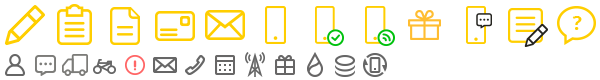
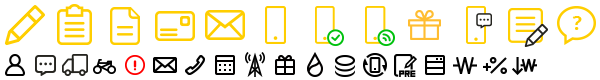
디자인 개선

Changed region(s): [[0.0, 0.65, 0.9, 0.975]]

diff --git a/css/scss/_ico.scss b/css/scss/_ico.scss
@@ -3,65 +3,100 @@
 	background-repeat:no-repeat;
 }
 .ico-small {
-	@extend .ico-common;
 	@include inlineBlock;
+	@include opacity(0.6);
 	width:30px;
 	height:30px;
 	vertical-align:middle;
+	background-image:url('../img/ico-common-small.png');
+	background-repeat:no-repeat;
+	&:active{@include opacity(1);}
 }
-
+.ico-calculate {
+	@include inlineBlock;
+	width:14px;
+	height:14px;
+	background-image:url('../img/ico-calculate.png');
+	background-repeat:no-repeat;
+	vertical-align:middle;
+}
+.ico-calculate-minus-positive{
+	@extend .ico-calculate;
+	background-position:-28px -14px;
+}
+.ico-calculate-plus{
+	@extend .ico-calculate;
+	@include opacity(0.6);
+	background-position:-14px 0px;
+}
+.ico-more-small{
+	@extend .ico-small;
+	background-position:-540px 0;
+}
+.ico-capacity-small{
+	@extend .ico-small;
+	background-position:-420px 0;
+}
+.ico-vat-small{
+	@extend .ico-small;
+	background-position:-480px 0;
+}
+.ico-sale-small{
+	@extend .ico-small;
+	background-position:-510px 0;
+}
 .ico-person-small{
 	@extend .ico-small;
-	background-position:0 -50px;
+	background-position:-30px 0;
 }
 .ico-talk-small{
 	@extend .ico-small;
-	background-position:-30px -50px;
+	background-position:-30px 0;
 }
 .ico-truck-small{
 	@extend .ico-small;
-	background-position:-60px -50px;
+	background-position:-60px 0;
 }
 .ico-bike-small{
 	@extend .ico-small;
-	background-position:-90px -50px;
+	background-position:-90px 0;
 }
 .ico-caution-small{
 	@extend .ico-small;
 	margin-top:-5px;
-	background-position:-120px -50px;
+	background-position:-120px 0;
 }
 .ico-email-small{
 	@extend .ico-small;
-	background-position:-150px -50px;
+	background-position:-150px 0;
 }
 .ico-tel-small{
 	@extend .ico-small;
-	background-position:-180px -50px;
+	background-position:-180px 0;
 }
 .ico-calendar-small{
 	@extend .ico-small;
-	background-position:-210px -50px;
+	background-position:-210px 0;
 }
 .ico-carrier-small{
 	@extend .ico-small;
-	background-position:-240px -50px;
+	background-position:-240px 0;
 }
 .ico-gift-small{
 	@extend .ico-small;
-	background-position:-270px -50px;
+	background-position:-270px 0;
 }
 .ico-color-small{
 	@extend .ico-small;
-	background-position:-300px -50px;
+	background-position:-300px 0;
 }
 .ico-plan-small, 
 .ico-coins-small{
 	@extend .ico-small;
-	background-position:-330px -50px;
+	background-position:-330px 0;
 }
 .ico-apply-type-small,
 .ico-change-device-small{
 	@extend .ico-small;
-	background-position:-360px -50px;
+	background-position:-360px 0;
 }

diff --git a/css/scss/_calculator.scss b/css/scss/_calculator.scss
@@ -26,6 +26,7 @@
 	position:absolute;
 	right:0;
 	padding:5px 10px;
+	.ico-calculate-plus{@include opacity(0.4);}
 	.price{font-size:1.2em;}
 }
 .calc-value-label{
@@ -76,13 +77,15 @@
 	position:absolute;
 	width:30px;
 	height:30px;
+	padding:0;
 	background:none;
 	font-size:2em;
 	font-weight:bold;
 	color:getPrimaryColor(8);
 	border:0;
-	bottom:0;
-	right:0;
+	bottom:7px;
+	right:7px;
+	.ico-more-small{@include opacity(1);background-position:-540px -30px;}
 }
 .calc-wrap{
 	width:100%;
@@ -170,6 +173,7 @@
 		height:20px;
 		line-height:20px;
 	}
+	i{display:none;}
 	.calc-row.active &{
 		color:rgba(0,0,0,0.5);
 	}
@@ -323,10 +327,31 @@
 		line-height:85px;
 		font-size:1em;
 	}
-	.calc-row{height:85px;}
-	.calc-row-label{
-		top:0px;
-		left:5px;
+	.calc-row{
+		padding-left:65px;
+		height:85px;
+		&-lock-1,
+		&-lock-2,
+		&-lock-3,
+		&-lock-4{
+			display:block;
+			width:100%;
+		}
+	}
+	.calc-row-label{	
+		width:65px;
+		height:85px;
+		left:0;
+		font-size:.85em;
+		text-align:center;
+		i{
+			display:block; 
+			margin:0 auto;
+			margin-top:15px;
+		}
+		.ico-vat-small{margin-top:5px;}
+		.calc-vat-character{display:block;font-size:0em;}
+		/*border-right:1px solid rgba(0,0,0,.1);*/
 	}
 	.calc-result-wrap{
 		width:45%;
@@ -347,13 +372,14 @@
 		.calc-pad-wrap{width:55%}
 		.calc-wrap{width:100%}
 	}
-
 }
 
 @media all and (min-width:900px){
 	.calc-wrap{width:900px;}
 	.calc-pad-wrap{width:60%;border:solid 1px rgba(0,0,0,.1);}
 	.calc-result-wrap{width:35%}
+	.calc-row{padding-left:85px;}
+	.calc-row-label{width:85px;}
 }
 
 @media all and (min-width:1200px){

diff --git a/js/calculator.js b/js/calculator.js
@@ -24,7 +24,7 @@ $('.js-calcPad input[type=radio], .js-calcPad select').change(function(){
 			async:false,
 			data:$data,
 			success:function(data){
-				console.log(data);
+				//console.log(data);
 				$arrPad[$carrier] = $.parseJSON(data);
 			}
 		});
@@ -90,7 +90,7 @@ $('.js-calcPad input[type=radio], .js-calcPad select').change(function(){
 		token : $('.js-token').val()
 	};
 
-	console.log($data);
+	//console.log($data);
 
 	//ajax 통신으로 데이터를 받아옴
 	var $key = $carrier+'-'+$plan+'-'+$applyType+'-'+$discountType;
@@ -105,7 +105,7 @@ $('.js-calcPad input[type=radio], .js-calcPad select').change(function(){
 			async:false,
 			data:$data,
 			success:function(data){
-				console.log(data);
+				//console.log(data);
 				$data = $.parseJSON(data);
 				$arrPlanData[$key] = $data;
 			}
@@ -221,8 +221,8 @@ $('.js-calculatorDetailToggle').click(function(){
 
 
 function setCalcHeight(){
-	console.log('document:'+ $(document).width());
-	console.log('window:'+ $(window).width());
+	//console.log('document:'+ $(document).width());
+	//console.log('window:'+ $(window).width());
 	if ($(document).width() < 623) {
 		$('.calc-result-wrap').css({height:'25%'});
 	} else {

diff --git a/lib/lib.calculator.inc.php b/lib/lib.calculator.inc.php
@@ -54,7 +54,10 @@ class planCalculator {
 
 	private $htmlPadWrapTemplate = 
 		'<fieldset class="calc-row-{calcRowAffix}">
-			<div class="calc-row-label">{tit}</div>
+			<div class="calc-row-label">
+				<i class="ico-{ico}-small"></i>
+				{tit}
+			</div>
 			{content}
 		</fieldset>';
 
@@ -66,7 +69,10 @@ class planCalculator {
 
 	private $htmlPlanSelectWrapTemplate = 
 		'<div class="calc-row">
-			<div class="calc-row-label">{tit}</div>
+			<div class="calc-row-label">
+				<i class="ico-{ico}-small"></i>
+				{tit}
+			</div>
 			<select class="inp-select js-planCalcArg" name="plan">{content}</select>
 		</div>';
 
@@ -84,15 +90,15 @@ class planCalculator {
 					</div>
 					<div class="calc-value-row calc-result-row-support js-supportWrap {isSupportRowActive}">
 						<div class="calc-value-label">공시지원금</div>
-						<div class="calc-value-price">- <span class="js-support price">{spSupport}</span></div>
+						<div class="calc-value-price"><i class="ico-calculate-minus-positive"></i> <span class="js-support price">{spSupport}</span></div>
 					</div>
 					<div class="calc-value-row calc-result-row-support js-supportWrap {isSupportRowActive}">
 						<div class="calc-value-label">티플지원금</div>
-						<div class="calc-value-price">- <span class="js-addSupport price">{spAddSupport}</span></div>
+						<div class="calc-value-price"><i class="ico-calculate-minus-positive"></i> <span class="js-addSupport price">{spAddSupport}</span></div>
 					</div>
 					<div class="calc-value-row calc-result-row-interest js-interestWrap {isInterestRowActive}">
 						<div class="calc-value-label">할부이자율(<span class="js-repaymentType">{repaymentType}</span>)</div>
-						<div class="calc-value-price">+ <span class="js-interestRate price">5.8</span>%</div>
+						<div class="calc-value-price"><i class="ico-calculate-plus"></i> <span class="js-interestRate price">5.8</span>%</div>
 					</div>
 					<div class="calc-section-result">
 						<div class="calc-section-result-label">기기할부금</div>
@@ -108,11 +114,11 @@ class planCalculator {
 					</div>
 					<div class="calc-value-row calc-result-row-selectplan js-selectplanWrap {isSelectPlanDiscountRowActive}">
 						<div class="calc-value-label">선택약정할인</div>
-						<div class="calc-value-price">- <span class="js-selectplan price">{selectPlanDiscount}</span></div>
+						<div class="calc-value-price"><i class="ico-calculate-minus-positive"></i> <span class="js-selectplan price">{selectPlanDiscount}</span></div>
 					</div>
 					<div class="calc-value-row calc-result-row-interest js-VATWrap {isVATRowActive}">
 						<div class="calc-value-label">부가세</div>
-						<div class="calc-value-price">+ <span class="js-VAT price">{vat}</span></div>
+						<div class="calc-value-price"><i class="ico-calculate-plus"></i> <span class="js-VAT price">{vat}</span></div>
 					</div>
 					<div class="calc-section-result">
 						<div class="calc-section-result-label">통신요금</div>
@@ -127,7 +133,9 @@ class planCalculator {
 					<span class="calc-total-price js-result">{totalCost}</span>
 				</div>
 			</div>
-			<button class="calc-detail-btn js-calculatorDetailToggle" formnovalidate type="button">+</button>
+			<button class="calc-detail-btn js-calculatorDetailToggle" formnovalidate type="button">
+				<i class="ico-more-small"></i>
+			</button>
 		</div>
 	</div>';
 
@@ -275,6 +283,7 @@ class planCalculator {
 		}
 
 		$data = array();
+		$data['ico'] = 'carrier';
 		$data['tit'] = '통신사선택';
 		$data['content'] = $content;
 		$data['calcRowAffix'] = ($this->carrierTypeCount==1)?'lock-'.$this->lockedPropertyCount:$this->carrierTypeCount;
@@ -345,6 +354,7 @@ class planCalculator {
 			$content .= getResultTemplate($data, $this->htmlPadButtonTemplate);
 		}
 		$data = array();
+		$data['ico'] = 'capacity';
 		$data['tit'] = '기기용량';
 		$data['content'] = $content;
 		$data['calcRowAffix'] = ($this->capacityCount===1)?'lock-'.$this->lockedPropertyCount:$this->capacityCount;
@@ -379,6 +389,7 @@ class planCalculator {
 			$content .= getResultTemplate($data, $this->htmlPadButtonTemplate);
 		}
 		$data = array();
+		$data['ico'] = 'change-device';
 		$data['tit'] = '가입유형';
 		$data['content'] = $content;
 		$data['calcRowAffix'] = ($this->applyTypeCount===1)?'lock-'.$this->lockedPropertyCount:$this->applyTypeCount;
@@ -414,6 +425,7 @@ class planCalculator {
 			$content .= getResultTemplate($data, $this->htmlPadButtonTemplate);
 		}
 		$data = array();
+		$data['ico'] = 'sale';
 		$data['tit'] = '할인방식';
 		$data['content'] = $content;
 		$data['calcRowAffix'] = ($this->discountTypeCount===1)?'lock-'.$this->lockedPropertyCount:$this->discountTypeCount;
@@ -429,7 +441,8 @@ class planCalculator {
 			$content .= getResultTemplate($data, $this->htmlPadButtonTemplate, true);
 		}
 		$data = array();
-		$data['tit'] = '부가세 & 할부이자';
+		$data['ico'] = 'vat';
+		$data['tit'] = '부가세<span class="calc-vat-character"> & </span>할부이자';
 		$data['content'] = $content;
 		$data['calcRowAffix'] = 2;
 		$this->calculatorPad .= getResultTemplate($data, $this->htmlPadWrapTemplate);
@@ -453,6 +466,7 @@ class planCalculator {
 		}
 
 		$data = array();
+		$data['ico'] = 'plan';
 		$data['tit'] = '요금제';
 		$data['content'] = $content;
 		$this->calculatorPad .= getResultTemplate($data, $this->htmlPlanSelectWrapTemplate);
